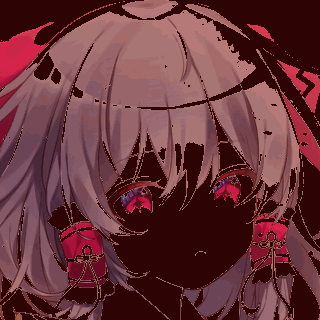
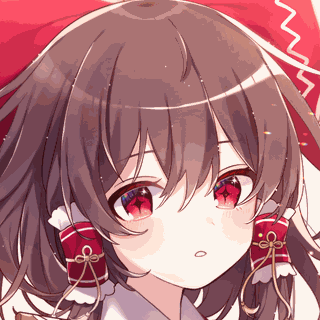
switched to hexa

diff --git a/main.go b/main.go
@@ -5,126 +5,98 @@ import (
 	"image/color"
 	"image/png"
 	"os"
-	// "time"
 )
 
-
-// OctreeNode represents a node in the octree palette.
-type OctreeNode struct {
+type HexadecaryNode struct {
 	isLeaf       bool
 	colorCount   int
 	redTotal     int
 	greenTotal   int
 	blueTotal    int
-	children     [8]*OctreeNode
+	alphaTotal   int
+	children     [16]*HexadecaryNode
 	paletteIndex int
 }
 
-// Octree represents an octree data structure used for color quantization.
-type Octree struct {
-	root       *OctreeNode    // root is a pointer to the root node of the octree.
-	colorDepth int            // colorDepth represents the number of bits used to represent each color component.
-	leafCount  int            // leafCount represents the number of leaf nodes in the octree.
-	reducible  [8]*OctreeNode // reducible is an array of pointers to reducible nodes in the octree.
-	palette    []color.Color  // palette is a slice that stores the color palette generated from the octree.
+type HexadecaryTree struct {
+	root       *HexadecaryNode
+	colorDepth int
+	leafCount  int
+	reducible  [16]*HexadecaryNode
+	palette    []color.Color
 }
 
-
-
-// NewOctree creates a new Octree with the specified color depth.
-// The color depth determines the number of bits used to represent each color channel.
-// Higher color depth allows for more accurate color representation but requires more memory.
-func NewOctree(colorDepth int) *Octree {
-	return &Octree{
-		root:       &OctreeNode{},
+func NewOctree(colorDepth int) *HexadecaryTree {
+	return &HexadecaryTree{
+		root:       &HexadecaryNode{},
 		colorDepth: colorDepth,
 	}
 }
 
-// BuildTree builds an octree from the given image.
-// It iterates over each pixel in the image and inserts the color into the octree.
-// It also prints the color at position (0, x) if y is 0 and x is less than 10.
-func BuildTree(img image.Image, octree *Octree) {
+func BuildTree(img image.Image, octree *HexadecaryTree) {
 	// Retrieves the bounds of an image in order to determine the range of pixels to iterate over.
-    bounds := img.Bounds()
+	bounds := img.Bounds()
 	// Iterates over each pixel within the bounds.
-    for y := bounds.Min.Y; y < bounds.Max.Y; y++ {
-        for x := bounds.Min.X; x < bounds.Max.X; x++ {
+	for y := bounds.Min.Y; y < bounds.Max.Y; y++ {
+		for x := bounds.Min.X; x < bounds.Max.X; x++ {
 			// Retrieves the color of the pixel at the specified position.
-            color := img.At(x, y)
+			color := img.At(x, y)
 			// Inserts the color into the octree.
-            octree.InsertColor(color)
+			octree.InsertColor(color)
 			// Prints the first 10 colors of the first row. (Debugging)
-            /* if y == 0 && x < 10 {
-                fmt.Printf("Color at (0,%d): %v\n", x, color)
-            }
-				*/
-        }
-    }
+			/* if y == 0 && x < 10 {
+			       fmt.Printf("Color at (0,%d): %v\n", x, color)
+			   }
+			*/
+		}
+	}
 }
 
-// InsertColor inserts a color into the Octree.
-// It takes a color.Color as input and inserts it into the Octree data structure.
-// The color is converted to RGBA format and then inserted into the appropriate node in the Octree.
-// If the Octree exceeds the maximum number of colors, it will be reduced.
-func (o *Octree) InsertColor(c color.Color) {
-    const maxDepth = 8
-    const maxColors = 256
+func (o *HexadecaryTree) InsertColor(c color.Color) {
+	const maxDepth = 8
+	const maxColors = 256
 
-	// Converts the color to RGBA format.
-    rgba := color.RGBAModel.Convert(c).(color.RGBA)
-    r, g, b := rgba.R, rgba.G, rgba.B
+	rgba := color.RGBAModel.Convert(c).(color.RGBA)
+	r, g, b, a := rgba.R, rgba.G, rgba.B, rgba.A;
 
-	// Initializes the current node to the root of the Octree.
-    currentNode := o.root
-	// Initializes the bit mask to the highest bit of the color depth.
-    bitMask := 1 << (maxDepth - 1)
+	currentNode := o.root
+	bitMask := 1 << (maxDepth - 1)
 
-	// Iterates over the color depth and the maximum depth to insert the color into the Octree.
 	for level := 0; level < o.colorDepth && level < maxDepth; level++ {
-		// Calculates the index of the child node based on the color components and the bit mask.
-		index := ((int(r) & bitMask) >> (maxDepth - 3 - level)) |
-				 ((int(g) & bitMask) >> (maxDepth - 2 - level)) |
-				 ((int(b) & bitMask) >> (maxDepth - 1 - level))
-	
-				 // If the child node is nil, it creates a new node and adds it to the reducible list if it is not a leaf node.
+		index := ((int(r) & bitMask) >> (maxDepth - 4 - level)) |
+			((int(g) & bitMask) >> (maxDepth - 3 - level)) |
+			((int(b) & bitMask) >> (maxDepth - 2 - level)) |
+			((int(a) & bitMask) >> (maxDepth - 1 - level))
+
 		if currentNode.children[index] == nil {
-			currentNode.children[index] = &OctreeNode{}
-			// If the current level is less than the maximum depth, it adds the child node to the reducible list.
+			currentNode.children[index] = &HexadecaryNode{}
 			if level < maxDepth-1 {
-                o.reducible[level+1] = currentNode.children[index]
-            }
-			// If the current level is equal to the maximum depth minus one, it increments the leaf count.
-            if level == maxDepth-1 {
-                o.leafCount++
-            }
-        }
-// Updates the current node to the child node at the calculated index and shifts the bit mask to the right.
-        currentNode = currentNode.children[index]
-		// Updates the bit mask by shifting it to the right.
-        bitMask >>= 1
-    }
+				o.reducible[level+1] = currentNode.children[index]
+			}
+			if level == maxDepth-1 {
+				o.leafCount++
+			}
+		}
 
-	// If the current node is not a leaf node, it marks it as a leaf node and increments the leaf count.
-  if !currentNode.isLeaf {
-        currentNode.isLeaf = true
-    }
-    currentNode.colorCount++
-    currentNode.redTotal += int(r)
-    currentNode.greenTotal += int(g)
-    currentNode.blueTotal += int(b)
+		currentNode = currentNode.children[index]
+		bitMask >>= 1
+	}
 
-	// If the leaf count exceeds the maximum number of colors, it reduces the Octree.
-    if o.leafCount > maxColors {
-        o.Reduce()
-    }
+	if !currentNode.isLeaf {
+		currentNode.isLeaf = true
+	}
+	currentNode.colorCount++
+	currentNode.redTotal += int(r)
+	currentNode.greenTotal += int(g)
+	currentNode.blueTotal += int(b)
+	currentNode.alphaTotal += int(a)
+
+	if o.leafCount > maxColors {
+		o.Reduce()
+	}
 }
 
-// Reduce reduces the octree by merging nodes until the leaf count is less than or equal to 256.
-// It iterates through the reducible nodes in reverse order and merges them if they are not nil.
-// After merging, it updates the total color values and color count of the merged node.
-// Finally, it marks the merged node as a leaf and increments the leaf count.
-func (o *Octree) Reduce() {
+func (o *HexadecaryTree) Reduce() {
 	for o.leafCount > 256 {
 		var levelToReduce int
 		for i := len(o.reducible) - 1; i >= 0; i-- {
@@ -138,12 +110,13 @@ func (o *Octree) Reduce() {
 			return
 		}
 		o.reducible[levelToReduce] = nil
-		redTotal, greenTotal, blueTotal, colorCount := 0, 0, 0, 0
+		redTotal, greenTotal, blueTotal, alphaTotal, colorCount := 0, 0, 0, 0, 0
 		for i, child := range nodeToReduce.children {
 			if child != nil {
 				redTotal += child.redTotal
 				greenTotal += child.greenTotal
 				blueTotal += child.blueTotal
+				alphaTotal += child.alphaTotal
 				colorCount += child.colorCount
 				o.leafCount--
 				nodeToReduce.children[i] = nil
@@ -153,23 +126,18 @@ func (o *Octree) Reduce() {
 		nodeToReduce.redTotal = redTotal
 		nodeToReduce.greenTotal = greenTotal
 		nodeToReduce.blueTotal = blueTotal
+		nodeToReduce.alphaTotal = alphaTotal
 		nodeToReduce.colorCount = colorCount
 		o.leafCount++
 	}
 }
 
-// BuildPalette builds the color palette for the Octree.
-// It initializes the palette slice and calls the buildPaletteRecursive method to populate it.
-func (o *Octree) BuildPalette() {
+func (o *HexadecaryTree) BuildPalette() {
 	o.palette = make([]color.Color, 0, 256)
 	o.buildPaletteRecursive(o.root)
 }
 
-// buildPaletteRecursive recursively builds the color palette for the Octree.
-// It traverses the Octree and calculates the average color for each leaf node.
-// If the palette already contains 256 colors, the function stops adding new colors.
-// The calculated average color is added to the palette and the palette index is assigned to the node.
-func (o *Octree) buildPaletteRecursive(node *OctreeNode) {
+func (o *HexadecaryTree) buildPaletteRecursive(node *HexadecaryNode) {
 	if node == nil {
 		return
 	}
@@ -181,7 +149,7 @@ func (o *Octree) buildPaletteRecursive(node *OctreeNode) {
 			R: uint8(node.redTotal / node.colorCount),
 			G: uint8(node.greenTotal / node.colorCount),
 			B: uint8(node.blueTotal / node.colorCount),
-			A: 255,
+			A: uint8(node.alphaTotal / node.colorCount),
 		}
 		node.paletteIndex = len(o.palette)
 		o.palette = append(o.palette, averageColor)
@@ -192,25 +160,26 @@ func (o *Octree) buildPaletteRecursive(node *OctreeNode) {
 	}
 }
 
-// GetPaletteIndex returns the palette index for a given color.
-// It traverses the octree to find the leaf node corresponding to the color,
-// and returns the palette index stored in that node.
-func (o *Octree) GetPaletteIndex(c color.Color) int {
+func (o *HexadecaryTree) GetPaletteIndex(c color.Color) int {
 	rgba := color.RGBAModel.Convert(c).(color.RGBA)
-	r, g, b := rgba.R, rgba.G, rgba.B
+	r, g, b, a := rgba.R, rgba.G, rgba.B, rgba.A;
 
 	currentNode := o.root
 	for level := 0; level < o.colorDepth; level++ {
 		index := 0
 		if r&(1<<(7-level)) != 0 {
-			index |= 4
+			index |= 0b1000
 		}
 		if g&(1<<(7-level)) != 0 {
-			index |= 2
+			index |= 0b0100
 		}
 		if b&(1<<(7-level)) != 0 {
-			index |= 1
+			index |= 0b0010
 		}
+		if a&(1<<(7-level)) != 0 {
+			index |= 0b0001
+		}
+		// insert A here somehow.
 		if currentNode.children[index] == nil {
 			break
 		}
@@ -224,10 +193,7 @@ func (o *Octree) GetPaletteIndex(c color.Color) int {
 	return 0
 }
 
-
-// ConvertToPaletted converts the given image to a paletted image using the Octree's palette.
-// It returns a pointer to the converted paletted image.
-func (o *Octree) ConvertToPaletted(img image.Image) *image.Paletted {
+func (o *HexadecaryTree) ConvertToPaletted(img image.Image) *image.Paletted {
 	bounds := img.Bounds()
 	palettedImage := image.NewPaletted(bounds, o.palette)
 	for y := bounds.Min.Y; y < bounds.Max.Y; y++ {
@@ -254,7 +220,7 @@ func main() {
     // fmt.Printf("Image loading took: %v\n", time.Since(start))
 
     // octreeStart := time.Now()
-    octree := NewOctree(4)
+    octree := NewOctree(3)
 	BuildTree(img, octree)
 
     // fmt.Printf("Octree insertion took: %v\n", time.Since(octreeStart))

diff --git a/README.MD b/README.MD
@@ -1,28 +1,29 @@
-# Octree Color Quantization in Go
+# Hexadecary Tree Color Quantization in Go
 
-This Go program demonstrates the implementation of an octree color quantization algorithm. The algorithm is designed to reduce the number of colors in an image, making it suitable for formats that support a limited color palette, such as GIFs or 8-bit PNGs. The goal is to preserve the visual fidelity of the original image as much as possible while reducing the color count.
+This Go program demonstrates the implementation of a hexadecary tree (16-ary tree) color quantization algorithm. The algorithm is designed to reduce the number of colors in an image more efficiently than the traditional octree method, making it suitable for formats that support a limited color palette, such as GIFs or 8-bit PNGs. The goal is to preserve the visual fidelity of the original image as much as possible while reducing the color count.
 
 ## Features
 
-- **Octree Color Quantization**: Efficiently reduces the number of colors in an image.
+- **Hexadecary Tree Color Quantization**: More efficient color reduction in images compared to octree quantization.
 - **Palette Generation**: Builds a color palette that closely matches the original image's colors.
 - **Image Conversion**: Converts images to use the generated palette, resulting in smaller file sizes without significant loss of quality.
 
 ## How It Works
 
-The program constructs an octree where each node represents a color or a range of colors. As colors are inserted into the tree, it grows dynamically, with each level of the tree representing a deeper color precision. When the tree exceeds a predefined number of colors, it is reduced by merging nodes, thus pruning the tree and reducing the color count.
+The program constructs a hexadecary tree where each node represents a color or a range of colors. As colors are inserted into the tree, it grows dynamically, with each level of the tree representing a deeper color precision. When the tree exceeds a predefined number of colors, it is reduced by merging nodes, thus pruning the tree and reducing the color count.
 
 ## Usage
 
 1. **Setting Up**: Ensure you have Go installed on your system.
-2. **Running the Program**: Use the command `go run main.go` to execute the program. The input image should be named `rem.png` and placed in the same directory as the program.
-3. **Output**: The program generates a new image named `rem_paletted.png`, which uses the reduced color palette.
+2. **Running the Program**: Use the command `go run main.go` to execute the program. The input image should be named `input.png` and placed in the same directory as the program.
+3. **Output**: The program generates a new image named `output_paletted.png`, which uses the reduced color palette.
 
 ## Implementation Details
 
-- **OctreeNode**: Represents a node in the octree. Leaf nodes store color information, while non-leaf nodes are used for navigation.
-- **Octree**: Manages the octree structure, including insertion of colors, reduction of the tree, and palette generation.
-- **Main Function**: Handles image loading, octree construction, palette building, image conversion, and saving the converted image.
+- **HexadecaryTreeNode**: Represents a node in the hexadecary tree. Leaf nodes store color information, while non-leaf nodes are used for navigation.
+- **HexadecaryTree**: Manages the hexadecary tree structure, including insertion of colors, reduction of the tree, and palette generation.
+- **Main Function**: Handles image loading, hexadecary tree construction, palette building, image conversion, and saving the converted image.
+
 
 ## Sampe Usage
 
